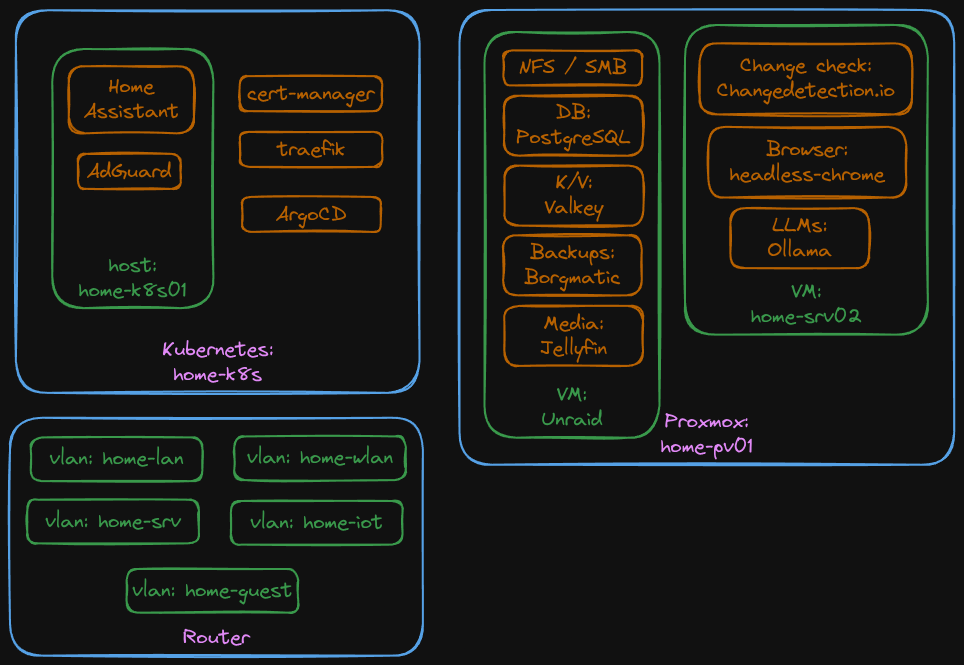
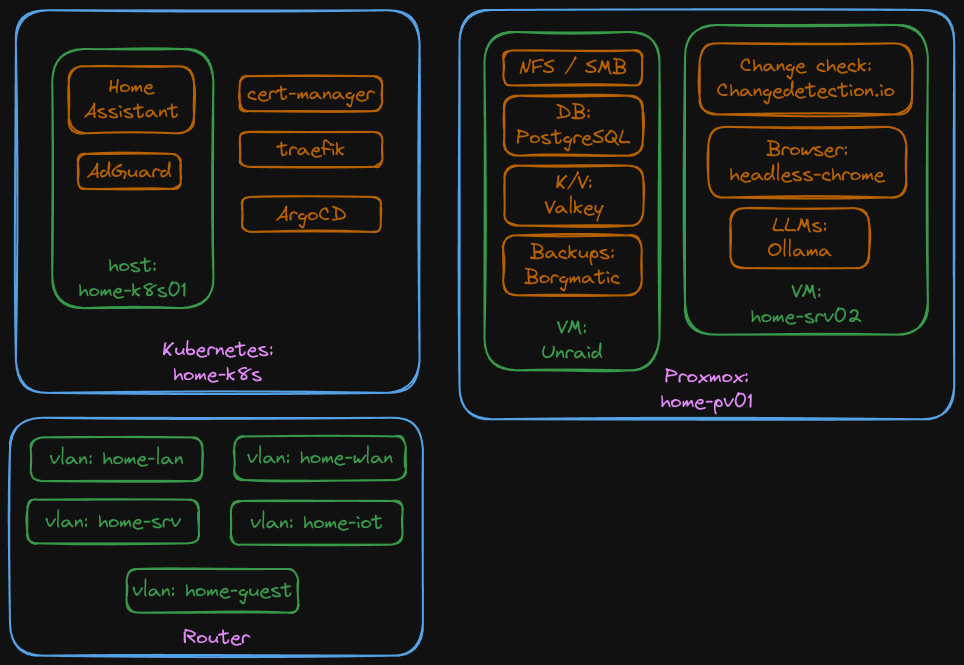
Update documentation regarding Unraid

Changed region(s): [[0.4668, 0.4511, 0.9959, 0.7218], [0.9647, 0.6617, 0.9959, 0.6917], [0.4668, 0.6617, 0.4979, 0.6917]]

diff --git a/README.md b/README.md
@@ -50,18 +50,10 @@ Let's Encrypt ClusterIssuer yamls need to be manually filed and ran.
 #### Service: system-upgrade
 Utilize k3s' system-upgrade-controller to keep nodes up to date.
 
-#### Service: Borgmatic
-Used for backups.<br>
-Normally I would consider using tools such as Velero to push backups to a s3 bucket, but this is more economical for me. <br>
-Works great with k3s local-path provisioner.
+## Usage
+### Ansible
 
-
-
-
-# Usage
-## Ansible
-
-### Setup ansible
+#### Setup ansible
 ```bash
 # Create virtual environment
 python3 -m venv .venv
@@ -72,7 +64,7 @@ python -m pip install ansible
 ansible-galaxy collection install community.general kubernetes.core
 ```
 
-### Run
+#### Run
 
 ```bash
 # Activate virtual environment
@@ -81,3 +73,19 @@ source .venv/bin/activate
 # Run ansible
 ansible-playbook ansible/k3s-cluster/main.yaml -i home-k8s/ansible-inventory.yaml
 ```
+
+# Unraid
+At home the main storage solution is based on Unraid. <br>
+As the kubernetes nfs CSI is yet to support user namespaces, I need to run certain software via Unraid's docker capabilities. <br>
+All of these are ran with `--security-opt=no-new-privileges --cap-drop=all --user xxx:xxx` to prevent privilege escalation issues - we are running public containers here so you can never be too careful :) <br>
+
+Running some of these directly on the storage also improves performance.<br>
+
+## Unraid: PostgreSQL 17
+Postgres is a database I host on unraid for performance reasons - it's nvme backed.
+
+## Unraid: valkey (redis fork)
+Certain software requires a k/v store. 
+
+## Unraid: borgmatic
+Backup solution that takes all the files, database dumps, etc. and backs them up offsite.
